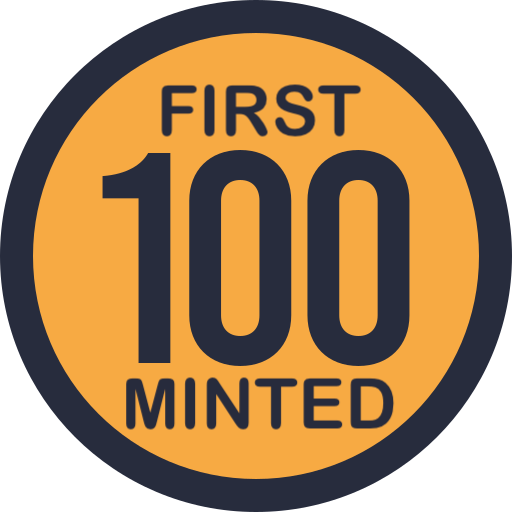
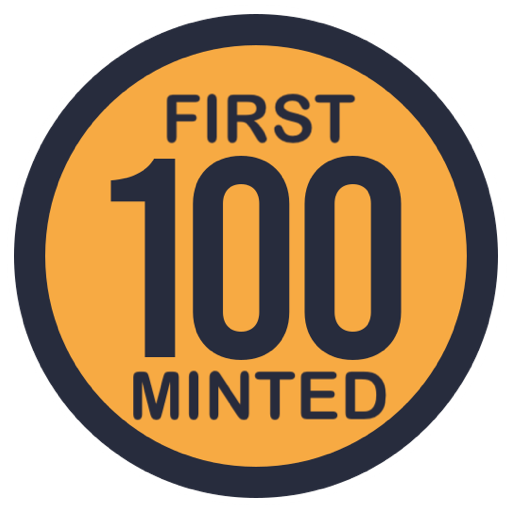
1001

Changed region(s): [[0.0, 0.0, 1.0, 1.0], [0.4375, 0.625, 0.5, 0.6562], [0.4375, 0.3438, 0.5, 0.375]]

diff --git a/dapp/src/Pages/TheDawgz/TheDawgz.tsx b/dapp/src/Pages/TheDawgz/TheDawgz.tsx
@@ -214,12 +214,12 @@ return (
           <Image src="https://raw.githubusercontent.com/ArielRin/alpha7mint/day-12/dapp/public/dog-tag.png" alt="Registered" boxSize="40px" mr="2" />
         )}
         {nft.tokenId < 101 && (
-          <Image src="https://raw.githubusercontent.com/ArielRin/alpha7mint/day-12/dapp/public/100.png" alt="First 100" boxSize="40px" />
+          <Image src="https://raw.githubusercontent.com/ArielRin/alpha7mint/day-12/dapp/public/1001.png" alt="First 100" boxSize="40px" />
         )}
       </Flex>
     </Flex>
                     <Text mt="2" fontSize="md" fontStyle="italic">"{nft.dawgTaunt}"</Text>
-                
+
                 <Button mt="4" as={RouterLink} to={`/nftdetails/${nft.tokenId}`} colorScheme="green">Detail</Button>
                 {!nft.isRegistered && (
                     <Button mt="4" ml="2" colorScheme="pink" onClick={() => handleRegisterDawg(nft)}>
